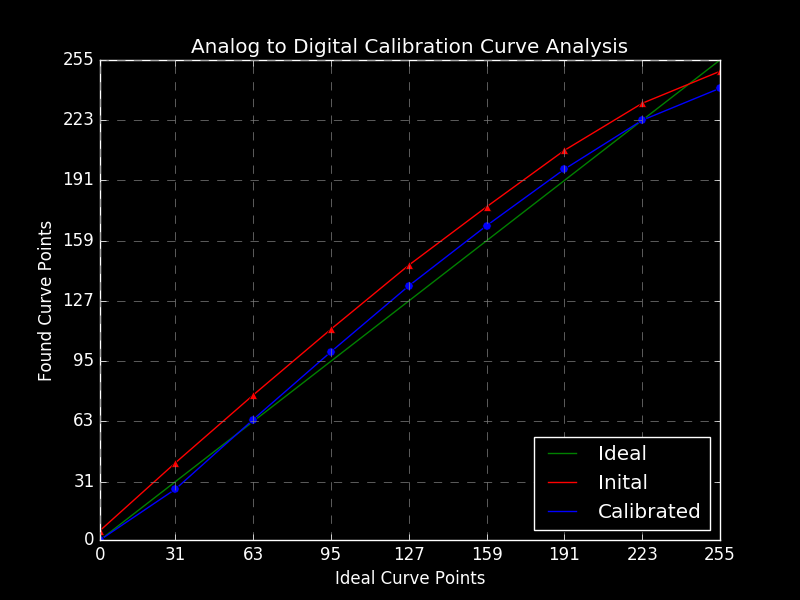
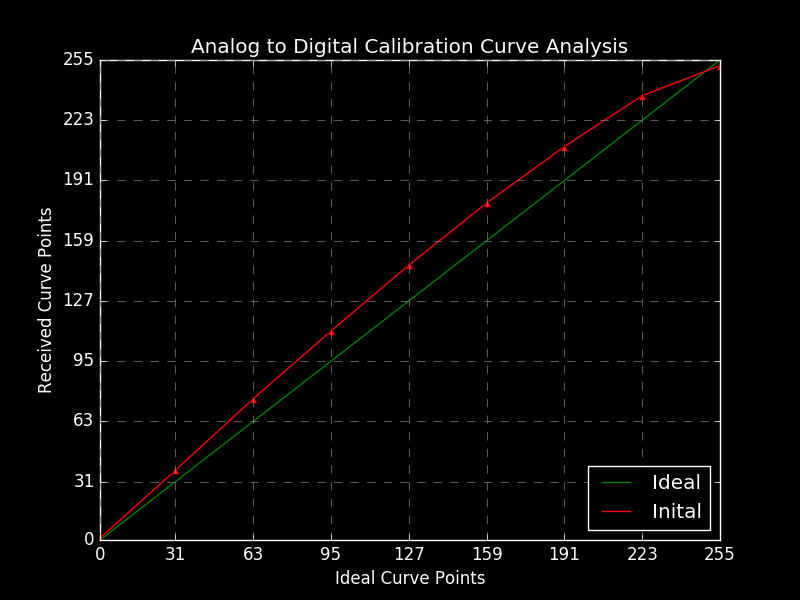
Working on telemetry report generation

diff --git a/p.py b/p.py
@@ -38,16 +38,30 @@ def grouper(n, iterable, fillvalue=None):
     args = [iter(iterable)] * n
     return izip_longest(fillvalue=fillvalue, *args)
 
-def scale_pixels(pixels, in_min, in_max, out_min, out_max):
-    in_min = float(in_min)
-    in_max = float(in_max)
-    out_min = float(out_min)
-    out_max = float(out_max)
+# def scale_pixels(pixels, in_min, in_max, out_min, out_max):
+#     in_min = float(in_min)
+#     in_max = float(in_max)
+#     out_min = float(out_min)
+#     out_max = float(out_max)
+#     for i, line in enumerate(pixels):
+#         line = np.clip(line, in_min, in_max)
+#         line = [float(p) for p in line]
+#         for j, pixel in enumerate(line):
+#             pixels[i][j] = (pixel - in_min) * (out_max - out_min) / (in_max - in_min) + out_min
+#             pixels[i][j] = int(round(pixels[i][j]))
+#     return pixels
+
+def scale_pixels(pixels, out_min=0, out_max=255):
+    in_max = max([max(line) for line in pixels])
+    in_min = min([min(line) for line in pixels])
     for i, line in enumerate(pixels):
-        line = np.clip(line, in_min, in_max)
-        line = [float(p) for p in line]
         for j, pixel in enumerate(line):
-            pixels[i][j] = int(round((pixel - in_min) * (out_max - out_min) / (in_max - in_min) + out_min))
+            pixels[i][j] = (pixel - in_min) * (out_max - out_min) / (in_max - in_min) + out_min
+
+            pixels[i][j] = int(round(pixels[i][j]))
+    # out_max = max([max(line) for line in pixels])
+    # out_min = min([min(line) for line in pixels])
+    # print('{}-{} -- {}-{}'.format(in_min, in_max, out_min, out_max))
     return pixels
 
 def process_tlm(tlm_strip):
@@ -64,6 +78,22 @@ def process_tlm(tlm_strip):
     frame_end = frame_start + 128
     tlm_frame = tlm[frame_start:frame_end]
     tlm_points = [int(sum(point)/len(point)) for point in grouper(8, tlm_frame, tlm_frame[-1])]
+    return tlm_points, tlm
+
+def process_tlm2(tlm_strip):
+    tlm = [sum(line)/len(line) for line in tlm_strip]
+    deltas = []
+    for i, point in enumerate(tlm):
+        if i != 0:
+            difference = abs(tlm[i] - tlm[i-1])
+        else:
+            difference = 0
+        deltas.append(difference)
+    frame_center = np.argmax(deltas)
+    frame_start = frame_center - 64
+    frame_end = frame_start + 128
+    tlm_frame = tlm[frame_start:frame_end]
+    tlm_points = [sum(point)/len(point) for point in grouper(8, tlm_frame, tlm_frame[-1])]
     return tlm_points, tlm
 
 # def space_view(space_mark_strip):
@@ -256,15 +286,16 @@ samples_found = len(raw_bytes) // BYTES_PER_FLOAT
 unpack_format = '<' + ('f' * samples_found)
 pixels = list(struct.unpack(unpack_format, raw_bytes))
 
+file_duration = datetime.timedelta(seconds = len(pixels) / (FULL_LINE_WIDTH * 2))
+print('Capture Duration: {}'.format(file_duration))
+
 print('Finding Sync Signals')
-pre_syncs = []
-new_pixels = []
-sync_lines = []
-max_sample = 0
-min_sample = 0
 sync_ratio = 0
 
 if len(syncs):
+    pre_syncs = []
+    new_pixels = []
+    sync_lines = []
     pre_syncs = pixels[0:syncs[0]['index']]
     additional_pixels = FULL_LINE_WIDTH - (len(pre_syncs) % FULL_LINE_WIDTH)
     pre_syncs = ([0] * additional_pixels) + pre_syncs
@@ -286,49 +317,27 @@ if len(syncs):
     if args.all:
         pixels = pre_syncs + new_pixels
 
-    if sync_ratio > 0.05:
-        a_tlm = [line[TLM_FRAME_RANGE['A'][0]:TLM_FRAME_RANGE['A'][1]] for line in pixels]
-        a_tlm = [sum(line)/len(line) for line in a_tlm]
-        b_tlm = [line[TLM_FRAME_RANGE['B'][0]:TLM_FRAME_RANGE['B'][1]] for line in pixels]
-        b_tlm = [sum(line)/len(line) for line in b_tlm]
-        max_sample = max(max(a_tlm), max(b_tlm))
-        min_sample = min(min(a_tlm), min(b_tlm))
-    else:
-        max_sample = max([max(line) for line in pixels])
-        min_sample = min([min(line) for line in pixels])
 else:
     print('No Syncs Found - Minimal Processing')
-    max_sample = max(pixels)
-    min_sample = min(pixels)
     pixels = [list(line) for line in grouper(FULL_LINE_WIDTH, pixels, 0)]
+    pixels = scale_pixels(pixels)
 
-file_duration = datetime.timedelta(seconds = len(pixels) / 2)
-print('Capture Duration: {}'.format(file_duration))
 
-print('Scaling to 1-Byte Range')
-pixels = scale_pixels(pixels, min_sample, max_sample, PIXEL_MIN, PIXEL_MAX)
 
 sync_ratio = len(syncs)/float(len(pixels))
 
 if sync_ratio > 0.05:
-    print('Initial Processing of Telemetry'.format(spacecraft))
+    print('Telemetry Processing - Find Digital Range From Wedges'.format(spacecraft))
     a_tlm = [line[TLM_FRAME_RANGE['A'][0]:TLM_FRAME_RANGE['A'][1]] for line in pixels]
     b_tlm = [line[TLM_FRAME_RANGE['B'][0]:TLM_FRAME_RANGE['B'][1]] for line in pixels]
-    a_telemetry, _ = process_tlm(a_tlm)
-    b_telemetry, _ = process_tlm(b_tlm)
-    unified_tlm = [int(round(sum(x)/2)) for x in zip(a_telemetry[0:14], b_telemetry[0:14])]
+    a_telemetry, _ = process_tlm2(a_tlm)
+    b_telemetry, _ = process_tlm2(b_tlm)
+    unified_tlm = [sum(x)/2 for x in zip(a_telemetry[0:14], b_telemetry[0:14])]
     telemetry = {'wedges':unified_tlm[0:8], 'zero_mod':unified_tlm[8]}
 
-    ideal_curve = [int(255 * (i / len(telemetry['wedges']))) for i in range(len(telemetry['wedges'])+ 1)]
-    initial_curve = [telemetry['zero_mod']] + telemetry['wedges']
-    data_fit = scipy.stats.linregress(ideal_curve, initial_curve)
-
-    print('Recalibrating based on calibration wedge data')
-    for i, line in enumerate(pixels):
-        for j, pixel in enumerate(line):
-            pixels[i][j] = int(round((pixel - data_fit.intercept) / data_fit.slope))
-
-    pixels = [np.clip(line, 0, 255) for line in pixels]
+    print('Scaling to wedge calibration')
+    pixels = [np.clip(line, telemetry['zero_mod'], telemetry['wedges'][-1]) for line in pixels]
+    pixels = scale_pixels(pixels)
 
     print('Reprocessing of Telemetry for {}'.format(spacecraft))
     a_tlm = [line[TLM_FRAME_RANGE['A'][0]:TLM_FRAME_RANGE['A'][1]] for line in pixels]
@@ -341,7 +350,9 @@ if sync_ratio > 0.05:
                  'a_bb':a_telemetry[14], 'a_channel':a_telemetry[15], 'a_space':0,
                  'b_bb':b_telemetry[14], 'b_channel':b_telemetry[15], 'b_space':0}
 
-    calibrated_curve = [telemetry['zero_mod']] + telemetry['wedges']
+    ideal_curve = [int(255 * (i / len(telemetry['wedges']))) for i in range(len(telemetry['wedges'])+ 1)]
+    initial_curve = [telemetry['zero_mod']] + telemetry['wedges']
+    data_fit = scipy.stats.linregress(ideal_curve, initial_curve)
     telemetry['a_channel'] = closest(telemetry['a_channel'], telemetry['wedges'])+1
     telemetry['b_channel'] = closest(telemetry['b_channel'], telemetry['wedges'])+1
     telemetry['prt_temps'] = [avhrr_prt_cal(telemetry['bb_thermistors'][j], CAL_DATA[spacecraft]['a'][j]) for j in range(0, 4)]
@@ -372,26 +383,41 @@ if sync_ratio > 0.05:
     print('\tCalibration Linearity: {:.4%}'.format(data_fit.rvalue))
 
     print('Generating Calibration Curve Plots')
-    plt.figure(0)
-    plt.style.use('dark_background')
+    # plt.style.use('dark_background')
+    plt.suptitle(spacecraft, fontsize=15, fontweight='bold')
+
+    plt.figure(0, figsize=(8.5, 11))
+    plt.suptitle(spacecraft, fontsize=15, fontweight='bold')
+    # plt.subplot(411)
+    plt.subplot2grid((3,2), (0,1))
     handle_ideal, = plt.plot(ideal_curve, ideal_curve, 'g-', label='Ideal')
-    handle_initial, _ = plt.plot(ideal_curve, initial_curve, 'r-', ideal_curve, initial_curve, 'r^', label='Inital')
-    # plt.plot(ideal_curve, initial_curve, 'r^')
-    handle_calibrated, _ = plt.plot(ideal_curve, calibrated_curve, 'b-', ideal_curve, calibrated_curve, 'bo', label='Calibrated')
-    # plt.plot(ideal_curve, calibrated_curve, 'bo')
+    handle_initial, _ = plt.plot(ideal_curve, initial_curve, 'r-', ideal_curve, initial_curve, 'r^', label='Received')
     plt.axis([0, 255, 0, 255])
     plt.xlabel('Ideal Curve Points')
-    plt.ylabel('Found Curve Points')
-    plt.title('Analog to Digital Calibration Curve Analysis')
-    plt.legend(handles=[handle_ideal, handle_initial, handle_calibrated], loc=4)
+    plt.ylabel('Received Curve Points')
+    plt.title('Analog to Digital Cal Curve')
+    plt.legend(handles=[handle_ideal, handle_initial], loc=4)
     plt.grid(b=True, which='major', color='grey', linestyle='--')
     plt.xticks(ideal_curve)
     plt.yticks(ideal_curve)
-    plt.savefig(input_file_directory + 'plot_cal_curves.png')
-    # plt.show()
+    # plt.savefig(input_file_directory + 'plot_cal_curves.png')
+
+    # print('Generating Telemetry Text-Only Plot')
+    # plt.figure(3, figsize=(10, 5))
+    # plt.subplot(412)
+    plt.subplot2grid((3,2), (0,0))
+    plt.axis('off')
+    plt.text(0, 0.95, 'Frame A: AVHRR Channel {} - {} - {}'.format(a_info['channel_id'], a_info['type'], a_info['description']))
+    plt.text(0, 0.90, 'Frame B: AVHRR Channel {} - {} - {}'.format(b_info['channel_id'], b_info['type'], b_info['description']))
+    plt.text(0, 0.85, 'PRTs: {}'.format('  '.join(['{:.2f} K'.format(temp) for temp in telemetry['prt_temps']])))
+    plt.text(0, 0.80, 'Blackbody Ref Temp: {:.2f} K'.format(telemetry['bb_temp']))
+    plt.text(0, 0.75, 'Patch Temp: {:.2f} K'.format(telemetry['patch_temp']))
+
 
     print('Generating Plot of Raw Telemetry Strips')
-    plt.figure(1, figsize=(12, 5))
+    # plt.figure(1, figsize=(12, 5))
+    # plt.subplot(413)
+    plt.subplot2grid((3,2), (1,0), colspan=2)
     plt.axis([0, max(len(tlm_a_strip), len(tlm_b_strip)), 0, 255])
     plt.xlabel('Line Number')
     plt.ylabel('Counts')
@@ -401,11 +427,12 @@ if sync_ratio > 0.05:
     plt.grid(b=True, which='major', color='grey', linestyle='--')
     plt.xticks(np.arange(0, len(tlm_a_strip), 16*8))
     plt.yticks(ideal_curve)
-    plt.savefig(input_file_directory + 'plot_tlm_strips.png')
-    # plt.show()
+    # plt.savefig(input_file_directory + 'plot_tlm_strips.png')
 
     print('Generating Plot of Space View')
-    plt.figure(2, figsize=(12, 5))
+    # plt.figure(2, figsize=(12, 5))
+    # plt.subplot(414)
+    plt.subplot2grid((3,2), (2,0), colspan=2)
     plt.axis([0, max(len(tlm_a_strip), len(tlm_b_strip)), 0, 255])
     plt.xlabel('Line Number')
     plt.ylabel('Counts')
@@ -420,8 +447,10 @@ if sync_ratio > 0.05:
     plt.xticks(np.arange(0, len(tlm_a_strip), 16*8))
     plt.yticks(ideal_curve)
     plt.grid(b=True, which='major', color='grey', linestyle='--')
-    plt.savefig(input_file_directory + 'plot_space_view.png')
-    # plt.show()
+    # plt.savefig(input_file_directory + 'plot_space_view.png')
+    plt.savefig(input_file_directory + 'plot_telemetry.png')
+# else:
+
 
 raw_images = {}
 raw_images['F'] = pixels
